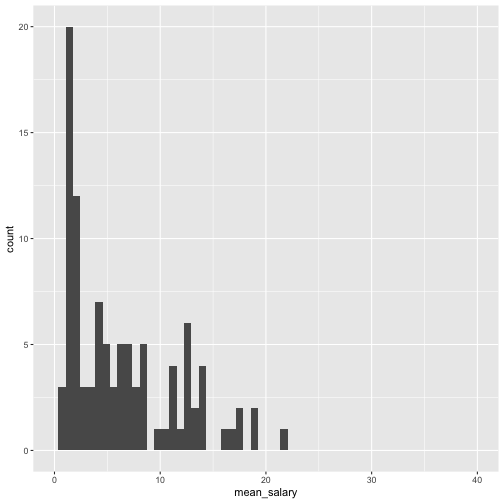
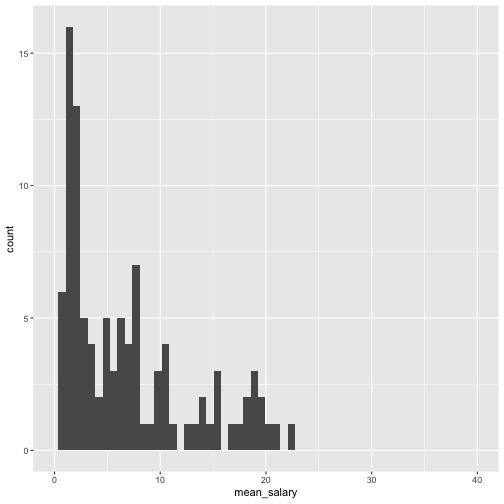
q fix

diff --git a/midterm-2/midterm-2-slides.md b/midterm-2/midterm-2-slides.md
@@ -157,9 +157,9 @@ sample_2
 ```
 
 ```
-  Sepal.Length Sepal.Width Petal.Length Petal.Width   Species
-1          6.7         3.3          5.7         2.5 virginica
-2          6.9         3.1          5.4         2.1 virginica
+  Sepal.Length Sepal.Width Petal.Length Petal.Width    Species
+1          5.1         3.7          1.5         0.4     setosa
+2          5.8         2.7          3.9         1.2 versicolor
 ```
 
 
@@ -174,12 +174,12 @@ sample_6
 
 ```
   Sepal.Length Sepal.Width Petal.Length Petal.Width    Species
-1          6.5         3.0          5.2         2.0  virginica
-2          5.8         2.7          4.1         1.0 versicolor
-3          5.8         2.7          5.1         1.9  virginica
-4          5.1         3.5          1.4         0.3     setosa
-5          5.7         2.8          4.5         1.3 versicolor
-6          5.6         2.5          3.9         1.1 versicolor
+1          5.5         2.5          4.0         1.3 versicolor
+2          5.4         3.4          1.7         0.2     setosa
+3          5.7         2.8          4.1         1.3 versicolor
+4          5.2         3.4          1.4         0.2     setosa
+5          6.0         2.2          4.0         1.0 versicolor
+6          5.7         3.8          1.7         0.3     setosa
 ```
 
 
@@ -251,7 +251,7 @@ $P(B \cup I) = P(B) + P(I) - P(B\cap I) = 0.11 + 0.28 - 0.05 = 0.34$
 Example
 ========================================================
 **Additional Questions for Home:**
-- What is the probability of a dalmatian being unimpaired and brown-eyed dog if it is neither hearing impaired nor blue eyed?  
+- What is the probability of a dalmatian neither being unimpaired nor a blue-eyed dog?  
 - Are $B$ and $I$ independent? Or dependent?  
 
 *If this was difficult to answer, please refer to Sarah's Venn Diagram notes on bCourses.*
@@ -524,7 +524,7 @@ sample_means_2 %>% summarize(sampling_mean=mean(mean_salary))
 
 ```
   sampling_mean
-1      6.374358
+1      6.884528
 ```
 
 Law of Large Numbers
@@ -538,7 +538,7 @@ sample_means_5 %>% summarize(sampling_mean=mean(mean_salary))
 
 ```
   sampling_mean
-1      6.019269
+1      7.129499
 ```
 
 Law of Large Numbers
@@ -552,7 +552,7 @@ sample_means_30 %>% summarize(sampling_mean=mean(mean_salary))
 
 ```
   sampling_mean
-1      6.560197
+1       6.51757
 ```
 
 Central Limit Theorem
